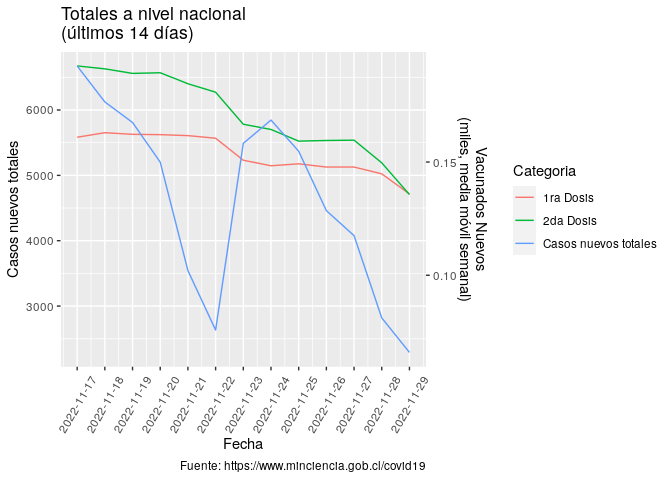
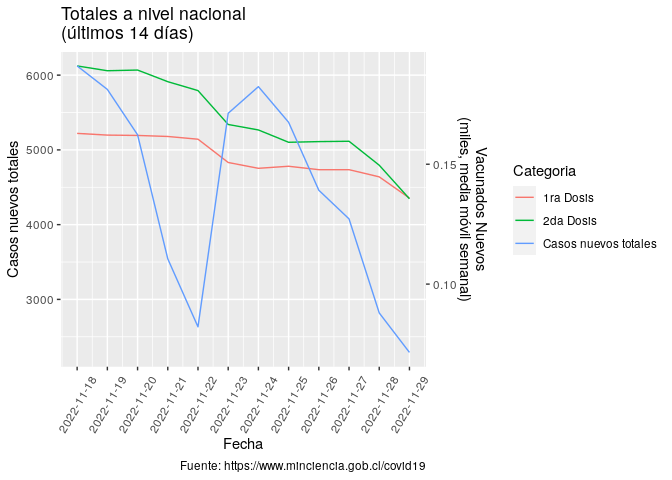
Re-build Rmarkdown files

diff --git a/README.md b/README.md
@@ -3,7 +3,7 @@
 
 Ejemplo de uso de total\_casos de COVID recopilados por el Ministerio de
 Ciencia de Chile <https://www.minciencia.gob.cl/covid19>. Última
-actualización: 2022-11-30
+actualización: 2022-12-01
 
 ## Visualización desde el comienzo de la pandemia
 
